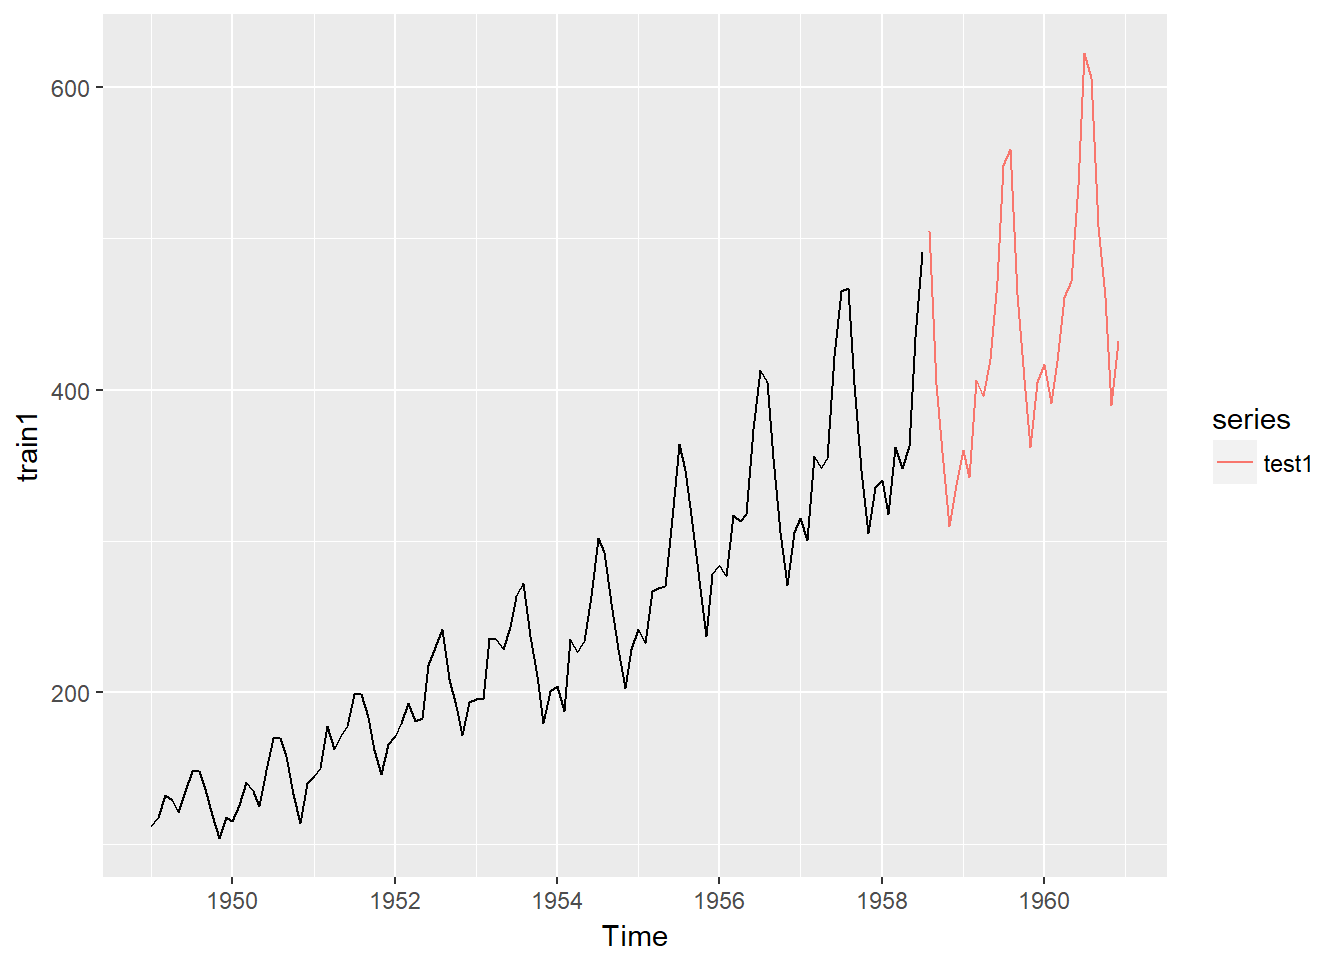
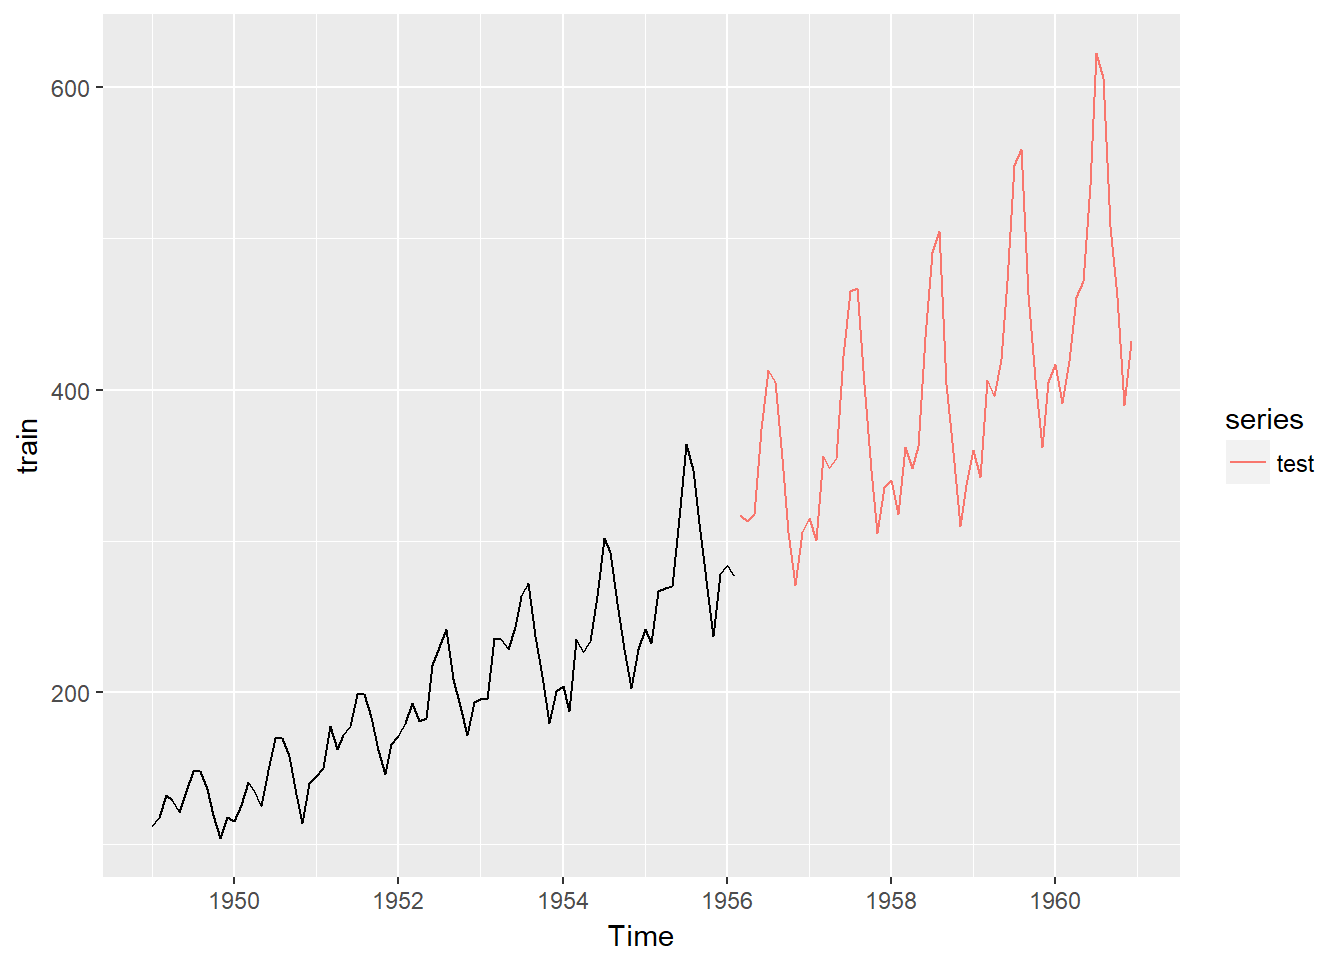
Create train and test sets for time series in R

diff --git a/content/post/2018-10-04-create-train-and-test-sets-for-time-series-in-r.html b/content/post/2018-10-04-create-train-and-test-sets-for-time-series-in-r.html
@@ -13,22 +13,23 @@ summary: "Prepare a train and a test set for time series with the forecast packa
 
 
 
-<p>The <a href="http://pkg.robjhyndman.com/forecast/">forecast</a> package by Rob Hyndman supports since version 8.0 <code>head</code> and <code>tail</code> for time series. This enables a very handy mechanism for creating train and test sets without the <code>window</code> or the <code>subset</code> function. All you have to do is provide the size of the train set, as exemplified below with the built-in AirPassengers dataset.</p>
+<p>The <a href="http://pkg.robjhyndman.com/forecast/">forecast</a> package by Rob Hyndman supports since version 8.0 <code>head</code> and <code>tail</code> for time series. This enables a very handy mechanism for creating train and test sets without the <code>window</code> or the <code>subset</code> function. All you have to do is provide the size of the training set, as exemplified in the code below.</p>
 <pre class="r"><code>library(forecast)
-train1 &lt;- head(AirPassengers, round(length(AirPassengers) * 0.8))
-h1 &lt;- length(AirPassengers) - length(train1)
-test1 &lt;- tail(AirPassengers, h1)</code></pre>
+train &lt;- head(AirPassengers, round(length(AirPassengers) * 0.6))
+h &lt;- length(AirPassengers) - length(train)
+test &lt;- tail(AirPassengers, h)</code></pre>
 <p>Alternatively, you can provide the length of the forecast horizon:</p>
-<pre class="r"><code>h2 &lt;- 29L
+<pre class="r"><code>h2 &lt;- 58L
 train2 &lt;- head(AirPassengers, round(length(AirPassengers) - h2))
 test2 &lt;- tail(AirPassengers, h2)</code></pre>
-<pre class="r"><code>identical(train1, train2)</code></pre>
+<p>Check that they are identical:</p>
+<pre class="r"><code>identical(train, train2)</code></pre>
 <pre><code>## [1] TRUE</code></pre>
-<pre class="r"><code>identical(test1, test2)</code></pre>
+<pre class="r"><code>identical(test, test2)</code></pre>
 <pre><code>## [1] TRUE</code></pre>
-<pre class="r"><code>identical(h1, h2)</code></pre>
+<pre class="r"><code>identical(h, h2)</code></pre>
 <pre><code>## [1] TRUE</code></pre>
-<pre class="r"><code>train1</code></pre>
+<pre class="r"><code>train</code></pre>
 <pre><code>##      Jan Feb Mar Apr May Jun Jul Aug Sep Oct Nov Dec
 ## 1949 112 118 132 129 121 135 148 148 136 119 104 118
 ## 1950 115 126 141 135 125 149 170 170 158 133 114 140
@@ -37,15 +38,15 @@ test2 &lt;- tail(AirPassengers, h2)</code></pre>
 ## 1953 196 196 236 235 229 243 264 272 237 211 180 201
 ## 1954 204 188 235 227 234 264 302 293 259 229 203 229
 ## 1955 242 233 267 269 270 315 364 347 312 274 237 278
-## 1956 284 277 317 313 318 374 413 405 355 306 271 306
-## 1957 315 301 356 348 355 422 465 467 404 347 305 336
-## 1958 340 318 362 348 363 435 491</code></pre>
-<pre class="r"><code>test1</code></pre>
+## 1956 284 277</code></pre>
+<pre class="r"><code>test</code></pre>
 <pre><code>##      Jan Feb Mar Apr May Jun Jul Aug Sep Oct Nov Dec
-## 1958                             505 404 359 310 337
+## 1956         317 313 318 374 413 405 355 306 271 306
+## 1957 315 301 356 348 355 422 465 467 404 347 305 336
+## 1958 340 318 362 348 363 435 491 505 404 359 310 337
 ## 1959 360 342 406 396 420 472 548 559 463 407 362 405
 ## 1960 417 391 419 461 472 535 622 606 508 461 390 432</code></pre>
-<pre class="r"><code>autoplot(train1) + autolayer(test1)</code></pre>
+<pre class="r"><code>autoplot(train) + autolayer(test)</code></pre>
 <p><img src="/post/2018-10-04-create-train-and-test-sets-for-time-series-in-r_files/figure-html/unnamed-chunk-6-1.png" width="672" /></p>
 <div id="links" class="section level2">
 <h2>Links</h2>

diff --git a/content/post/2017-10-03-which-package-a-dataset-comes-from.html b/content/post/2017-10-03-which-package-a-dataset-comes-from.html
@@ -19,7 +19,7 @@ summary: "Have you ever wondered where a particular dataset is coming from?"
 
 datasearch(&quot;gold&quot;)</code></pre>
 <pre><code>##      Package Item                     Title
-## 225 forecast gold Daily morning gold prices</code></pre>
+## 227 forecast gold Daily morning gold prices</code></pre>
 <pre class="r"><code>datasearch(&quot;1982&quot;)</code></pre>
 <pre><code>## [1] Package Item    Title  
 ## &lt;0 rows&gt; (or 0-length row.names)</code></pre>
